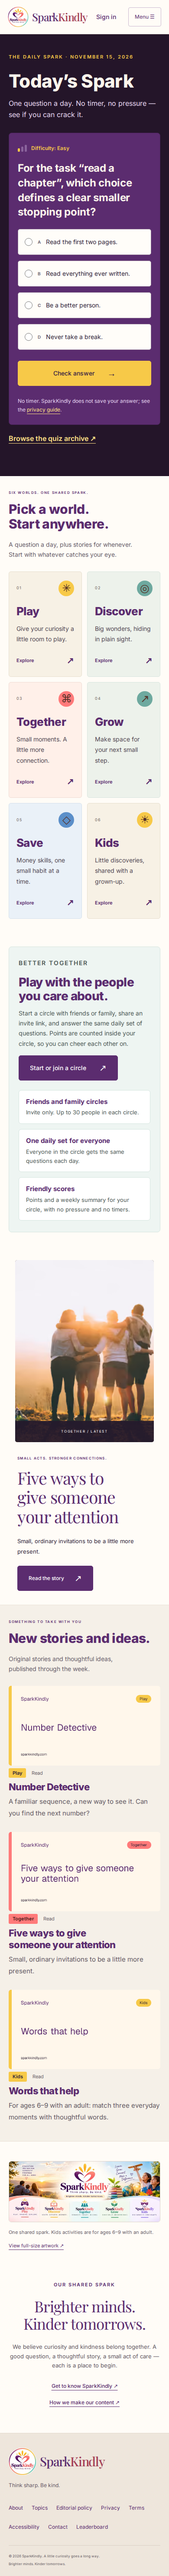
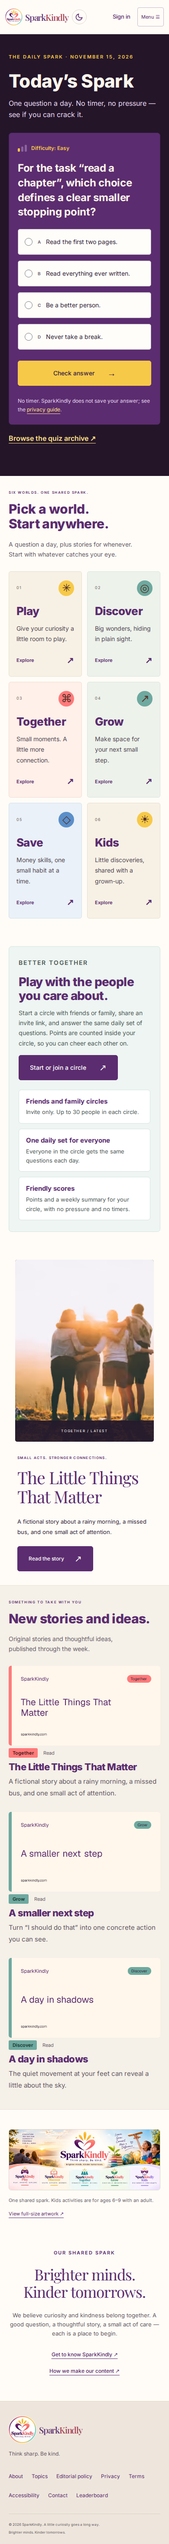
feat: A reader-controlled dark/light theme toggle
The header gains a sun/moon toggle (hidden on Kids pages, which keep
the system default and store nothing). Before any choice, the site
follows the visitor's system setting; the inline pre-paint script in
the root layout resolves that to data-theme on <html>, and the dark
scheme's rules now key off that attribute instead of the media query,
so a stored choice wins over the system on every later visit. The
choice is written to localStorage ('sk-theme') only when a reader
actually toggles; the script itself never writes.

Header fit: adding the button overflowed the header row, so gaps and
a few sizes are trimmed in width bands (glyphs hide at 801-1150px,
the families suffix at 801-1000px, smaller badge/type at <=400px).
Verified: no sideways scroll at 320/360/390/834/900/1024/1280/1440px;
toggle, persistence and Kids behaviour probed in a real browser;
typecheck and eslint clean; all 22 a11y/site e2e tests pass.

Changed region(s): [[0.0308, 0.0, 0.9538, 0.9666], [0.7692, 0.7483, 0.8923, 0.7795], [0.8, 0.3118, 0.8923, 0.343]]

diff --git a/app/globals.css b/app/globals.css
@@ -191,44 +191,45 @@ h1,h2,h3{font-family:var(--sans);font-weight:800;letter-spacing:-.6px}
 /* Dark scheme: the same brand after dark. Plum deepens, cream becomes the text colour, gold stays
    the accent. Light cards that carry dark text by design (options, verdicts, form inputs, the
    grown-ups panels) keep their light ground with their text colour pinned. */
-@media (prefers-color-scheme: dark){
-  :root{--paper:#1e1326;--ink:#f4edf3;--muted:#c9b6cb;--line:#483259;--plum:#dfaef0;--cream:#2a1a36}
-  .site-header{background:var(--paper);border-color:var(--line)}
-  .main-nav{background:var(--paper)}
-  .menu-toggle{border-color:var(--line);color:var(--plum)}
-  .button{background:#7a4495;border-color:#7a4495;color:#fff}
-  .button:hover{background:#8f56ab}
-  .quiz-panel .button{background:var(--gold);border-color:var(--gold);color:#3a2444}
-  .world-card{background:#2a1a36;border-color:var(--line)}
-  .world-card p{color:var(--muted)}
-  .world-number{color:var(--muted)}
-  .latest-section{background:#241529;border-color:var(--line)}
-  .footer{background:#180d20;border-color:var(--line)}
-  .footer-bottom{border-color:var(--line)}
-  .footer-bottom p,.footer-top p{color:var(--muted)}
-  .quiz-feature{background:#2a1a36;border-color:var(--line)}
-  .quiz-preview{background:#1e1326}
-  .board-row{background:#2a1a36}
-  .board-row.you{background:#3a2350;border-color:var(--plum)}
-  .board-name{color:var(--ink)}
-  .score-table th,.score-table td{background:#2a1a36}
-  .score-table thead th{background:transparent}
-  .score-table tbody tr.you th,.score-table tbody tr.you td{background:#3a2350}
-  .score-periods a{background:#2a1a36}
-  .score-periods a[aria-current]{background:#7a4495;border-color:#7a4495;color:#fff}
-  .score-you{background:#7a4495}
-  .circles-feature{background:#1d2a24;border-color:#33503f}
-  .circles-feature p{color:#c4d6cc}
-  .circles-points li{background:#26362d;border-color:#33503f;color:#c4d6cc}
-  .archive-grid article{background:#2a1a36}
-  .grown-ups,.takeaway,.activity-info,.money-disclaimer{color:#302438}
-  .grown-ups p,.takeaway p,.activity-info p{color:#302438}
-  .option,.quiz-result{color:#302438}
-  .admin-form input,.admin-form select,.admin-form textarea,.admin-inline input{color:#302438;background:#fff}
-  .share-buttons a{background:#2a1a36;color:var(--plum)}
-  .preview-notice{background:#120818}
-  .topic-index a{color:var(--plum)}
-}
+/* Dark scheme: applied when the reader's toggle (or, before any choice, their system setting, resolved
+   by the inline script in the root layout) puts data-theme="dark" on <html>. The toggle remembers the
+   choice in localStorage ('sk-theme'); nothing is stored until a reader actually toggles. */
+html[data-theme="dark"]{color-scheme:dark;--paper:#1e1326;--ink:#f4edf3;--muted:#c9b6cb;--line:#483259;--plum:#dfaef0;--cream:#2a1a36}
+html[data-theme="dark"] .site-header{background:var(--paper);border-color:var(--line)}
+html[data-theme="dark"] .main-nav{background:var(--paper)}
+html[data-theme="dark"] .menu-toggle{border-color:var(--line);color:var(--plum)}
+html[data-theme="dark"] .button{background:#7a4495;border-color:#7a4495;color:#fff}
+html[data-theme="dark"] .button:hover{background:#8f56ab}
+html[data-theme="dark"] .quiz-panel .button{background:var(--gold);border-color:var(--gold);color:#3a2444}
+html[data-theme="dark"] .world-card{background:#2a1a36;border-color:var(--line)}
+html[data-theme="dark"] .world-card p{color:var(--muted)}
+html[data-theme="dark"] .world-number{color:var(--muted)}
+html[data-theme="dark"] .latest-section{background:#241529;border-color:var(--line)}
+html[data-theme="dark"] .footer{background:#180d20;border-color:var(--line)}
+html[data-theme="dark"] .footer-bottom{border-color:var(--line)}
+html[data-theme="dark"] .footer-bottom p,html[data-theme="dark"] .footer-top p{color:var(--muted)}
+html[data-theme="dark"] .quiz-feature{background:#2a1a36;border-color:var(--line)}
+html[data-theme="dark"] .quiz-preview{background:#1e1326}
+html[data-theme="dark"] .board-row{background:#2a1a36}
+html[data-theme="dark"] .board-row.you{background:#3a2350;border-color:var(--plum)}
+html[data-theme="dark"] .board-name{color:var(--ink)}
+html[data-theme="dark"] .score-table th,html[data-theme="dark"] .score-table td{background:#2a1a36}
+html[data-theme="dark"] .score-table thead th{background:transparent}
+html[data-theme="dark"] .score-table tbody tr.you th,html[data-theme="dark"] .score-table tbody tr.you td{background:#3a2350}
+html[data-theme="dark"] .score-periods a{background:#2a1a36}
+html[data-theme="dark"] .score-periods a[aria-current]{background:#7a4495;border-color:#7a4495;color:#fff}
+html[data-theme="dark"] .score-you{background:#7a4495}
+html[data-theme="dark"] .circles-feature{background:#1d2a24;border-color:#33503f}
+html[data-theme="dark"] .circles-feature p{color:#c4d6cc}
+html[data-theme="dark"] .circles-points li{background:#26362d;border-color:#33503f;color:#c4d6cc}
+html[data-theme="dark"] .archive-grid article{background:#2a1a36}
+html[data-theme="dark"] .grown-ups,html[data-theme="dark"] .takeaway,html[data-theme="dark"] .activity-info,html[data-theme="dark"] .money-disclaimer{color:#302438}
+html[data-theme="dark"] .grown-ups p,html[data-theme="dark"] .takeaway p,html[data-theme="dark"] .activity-info p{color:#302438}
+html[data-theme="dark"] .option,html[data-theme="dark"] .quiz-result{color:#302438}
+html[data-theme="dark"] .admin-form input,html[data-theme="dark"] .admin-form select,html[data-theme="dark"] .admin-form textarea,html[data-theme="dark"] .admin-inline input{color:#302438;background:#fff}
+html[data-theme="dark"] .share-buttons a{background:#2a1a36;color:var(--plum)}
+html[data-theme="dark"] .preview-notice{background:#120818}
+html[data-theme="dark"] .topic-index a{color:var(--plum)}
 
 /* Header nav glyphs sit beside the world name (aria-hidden; the link name is the world alone). */
 .nav-glyph{margin-right:7px;font-size:15px}
@@ -250,4 +251,23 @@ h1,h2,h3{font-family:var(--sans);font-weight:800;letter-spacing:-.6px}
 
 /* Dark-scheme correction: the panel's plum is a surface, not an accent — the dark scheme lightens
    --plum for text, so the panel pins the deep plum it was designed on. */
-@media (prefers-color-scheme:dark){.quiz-panel{background:#5b2c6f}}
+html[data-theme="dark"] .quiz-panel{background:#5b2c6f}
+
+/* Theme toggle: both icons ship; the active scheme's CSS shows the one that switches away from it. */
+.theme-toggle{display:inline-grid;place-items:center;width:40px;height:40px;border-radius:50%;border:1px solid var(--line);background:transparent;color:var(--plum);cursor:pointer;flex:none}
+.theme-toggle:hover{border-color:var(--plum)}
+.theme-toggle svg{width:19px;height:19px}
+.theme-toggle .icon-sun{display:none}
+html[data-theme="dark"] .theme-toggle .icon-sun{display:block}
+html[data-theme="dark"] .theme-toggle .icon-moon{display:none}
+
+/* Header room for the theme toggle: tighter gaps keep every width on one row — the 320px
+   reflow rule leaves no slack, and at desktop widths the nav was already nearly full. */
+.header-inner{gap:16px}
+.main-nav{gap:12px}
+.theme-toggle{width:36px;height:36px}
+@media(max-width:800px){.header-inner{gap:10px;width:calc(100% - 32px)}.menu-toggle{padding:8px 10px}.header-signin{padding-inline:0;font-size:13px}.wordmark .brand-badge{width:46px;height:46px}}
+@media(min-width:801px) and (max-width:1150px){.nav-glyph{display:none}}
+@media(max-width:400px){.header-inner{width:calc(100% - 24px);gap:8px}.wordmark{gap:6px}.brand-name{font-size:22px}.theme-toggle{width:34px;height:34px}}
+@media(min-width:801px) and (max-width:1000px){.nav-families{display:none}.main-nav{gap:8px}.header-inner{gap:10px}.wordmark .brand-badge{width:48px;height:48px}}
+@media(max-width:400px){.menu-toggle{padding:8px;font-size:11px}.wordmark .brand-badge{width:40px;height:40px}.brand-name{font-size:20px}}

diff --git a/components/Header.tsx b/components/Header.tsx
@@ -6,6 +6,7 @@ import type { World } from '@/lib/public/worlds';
 export default function Header({worlds,signIn=false}:{worlds:World[];signIn?:boolean}) {
  const [open,setOpen]=useState(false); const button=useRef<HTMLButtonElement>(null); const pathname=usePathname();
  function close(restore=false) {setOpen(false);if(restore)button.current?.focus();}
+ function toggleTheme(){const el=document.documentElement;const next=el.dataset.theme==='dark'?'light':'dark';el.dataset.theme=next;try{localStorage.setItem('sk-theme',next)}catch{}}
  // Kids (ages 6-9, with a grown-up) sits apart from the teen worlds, labelled for the families it serves;
  // its route and link name are unchanged. Search joins the nav here; it existed unlinked before.
  const kids=worlds.find(w=>w.slug==='kids'); const main=worlds.filter(w=>w.slug!=='kids');
@@ -14,5 +15,6 @@ export default function Header({worlds,signIn=false}:{worlds:World[];signIn?:boo
  <div className="header-inner"><Link className="wordmark" href="/" onClick={()=>close()}><img className="brand-badge" src="/brand/badge-128.webp" width={64} height={64} alt=""/><span className="brand-name">Spark<span>Kindly</span></span></Link>
  <button ref={button} className="menu-toggle" aria-expanded={open} aria-controls="main-nav" onClick={()=>setOpen(!open)}>{open?'Close ✕':'Menu ☰'}</button>
  <nav id="main-nav" aria-label="Main navigation" className={open?'main-nav open':'main-nav'}>{main.map(w=>worldLink(w))}{kids&&worldLink(kids,<>{kids.name}<span className="nav-families" aria-hidden="true"> · for families</span></>)}<Link href="/search/" onClick={()=>close(true)}><span className="nav-glyph" aria-hidden="true">⌕</span>Search</Link><Link className="button nav-quiz" href="/quiz/" onClick={()=>close(true)}>Today’s quiz <span aria-hidden="true">↗</span></Link></nav>
- {signIn&&!pathname.startsWith('/kids/')&&<Link className="header-signin" href="/account/sign-in/" onClick={()=>close()}>Sign in</Link>}</div></header>;
+ {signIn&&!pathname.startsWith('/kids/')&&<Link className="header-signin" href="/account/sign-in/" onClick={()=>close()}>Sign in</Link>}
+ {!pathname.startsWith('/kids/')&&<button type="button" className="theme-toggle" aria-label="Toggle dark mode" onClick={toggleTheme}><svg className="icon-moon" viewBox="0 0 24 24" fill="none" stroke="currentColor" strokeWidth="2" strokeLinecap="round" strokeLinejoin="round" aria-hidden="true"><path d="M21 12.79A9 9 0 1 1 11.21 3 7 7 0 0 0 21 12.79Z"/></svg><svg className="icon-sun" viewBox="0 0 24 24" fill="none" stroke="currentColor" strokeWidth="2" strokeLinecap="round" strokeLinejoin="round" aria-hidden="true"><circle cx="12" cy="12" r="4"/><path d="M12 2v2M12 20v2M4.93 4.93l1.41 1.41M17.66 17.66l1.41 1.41M2 12h2M20 12h2M6.34 17.66l-1.41 1.41M19.07 4.93l-1.41 1.41"/></svg></button>}</div></header>;
 }

diff --git a/app/layout.tsx b/app/layout.tsx
@@ -14,4 +14,4 @@ import {navWorlds} from '@/lib/public/nav';
 export const dynamic='force-dynamic';
 export const viewport: Viewport = { themeColor: [{ media: '(prefers-color-scheme: light)', color: '#fffcf7' }, { media: '(prefers-color-scheme: dark)', color: '#1e1326' }] };
 export const metadata:Metadata={metadataBase:new URL(site.url),icons:{icon:[{url:'/brand/icon-32.png',sizes:'32x32',type:'image/png'},{url:'/brand/icon-64.png',sizes:'64x64',type:'image/png'}],apple:[{url:'/brand/icon-180.png',sizes:'180x180',type:'image/png'}]},title:{default:'SparkKindly — Think sharp. Be kind.',template:'%s | SparkKindly'},description:'A little curiosity. A little connection. Play, learn and grow with SparkKindly.',...(site.published?{}:{robots:{index:false,follow:false}})};
-export default async function RootLayout({children}:{children:React.ReactNode}){const worlds=await navWorlds();return <html lang="en"><body><a className="skip-link" href="#main">Skip to content</a><Header worlds={worlds} signIn={accountsEnabled()}/><noscript><style>{`@media(max-width:800px){.main-nav{display:flex;position:static;box-shadow:none;flex-wrap:wrap;flex-direction:row;padding:10px 0}.header-inner{flex-wrap:wrap}.menu-toggle{display:none}.main-nav .nav-quiz{margin:0}}`}</style></noscript><main id="main">{children}</main><Footer/>{!site.published&&<aside className="preview-notice" aria-label="Preview status">Development preview · The public website uses a separate production build.</aside>}</body></html>}
+export default async function RootLayout({children}:{children:React.ReactNode}){const worlds=await navWorlds();return <html lang="en" suppressHydrationWarning><body><script dangerouslySetInnerHTML={{__html:`(function(){try{var t=localStorage.getItem("sk-theme");if(t!=="light"&&t!=="dark"){t=window.matchMedia("(prefers-color-scheme: dark)").matches?"dark":"light"}document.documentElement.setAttribute("data-theme",t)}catch(e){}})();`}}/><a className="skip-link" href="#main">Skip to content</a><Header worlds={worlds} signIn={accountsEnabled()}/><noscript><style>{`@media(max-width:800px){.main-nav{display:flex;position:static;box-shadow:none;flex-wrap:wrap;flex-direction:row;padding:10px 0}.header-inner{flex-wrap:wrap}.menu-toggle{display:none}.main-nav .nav-quiz{margin:0}}`}</style></noscript><main id="main">{children}</main><Footer/>{!site.published&&<aside className="preview-notice" aria-label="Preview status">Development preview · The public website uses a separate production build.</aside>}</body></html>}
